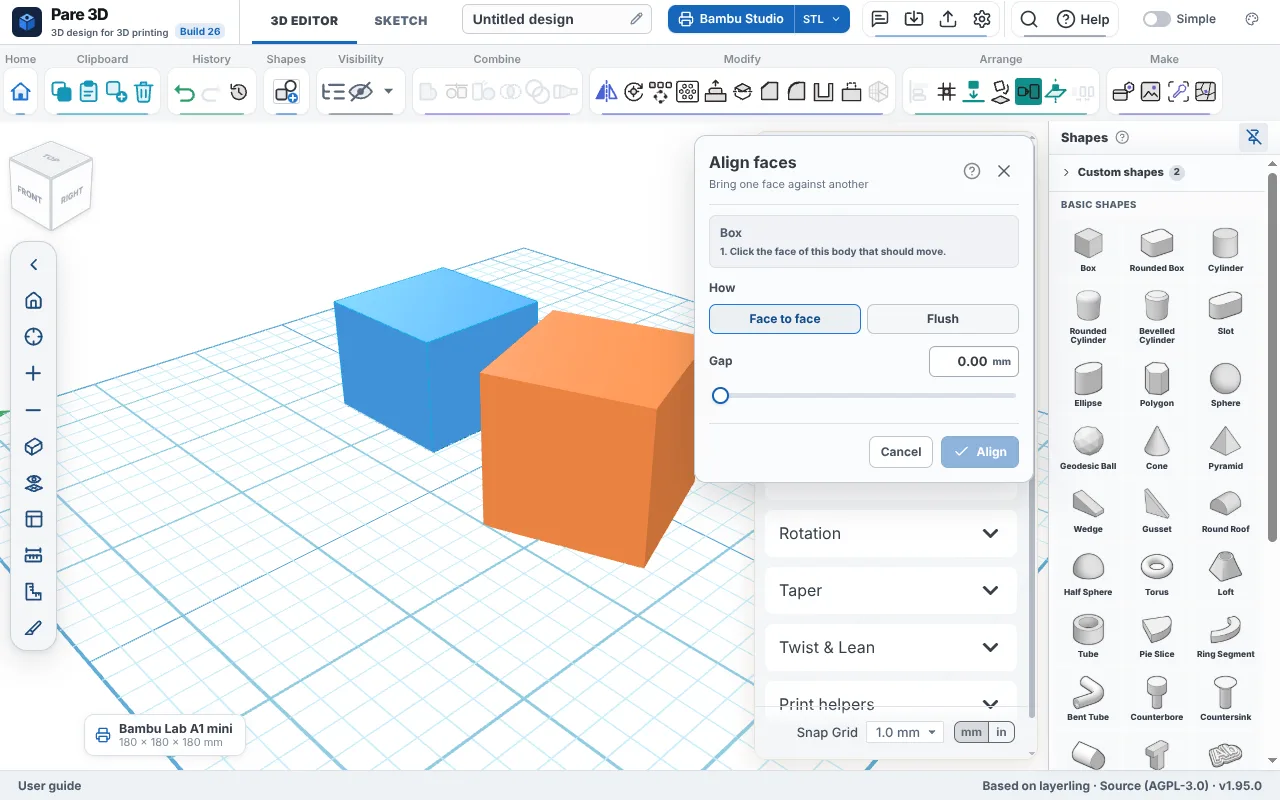
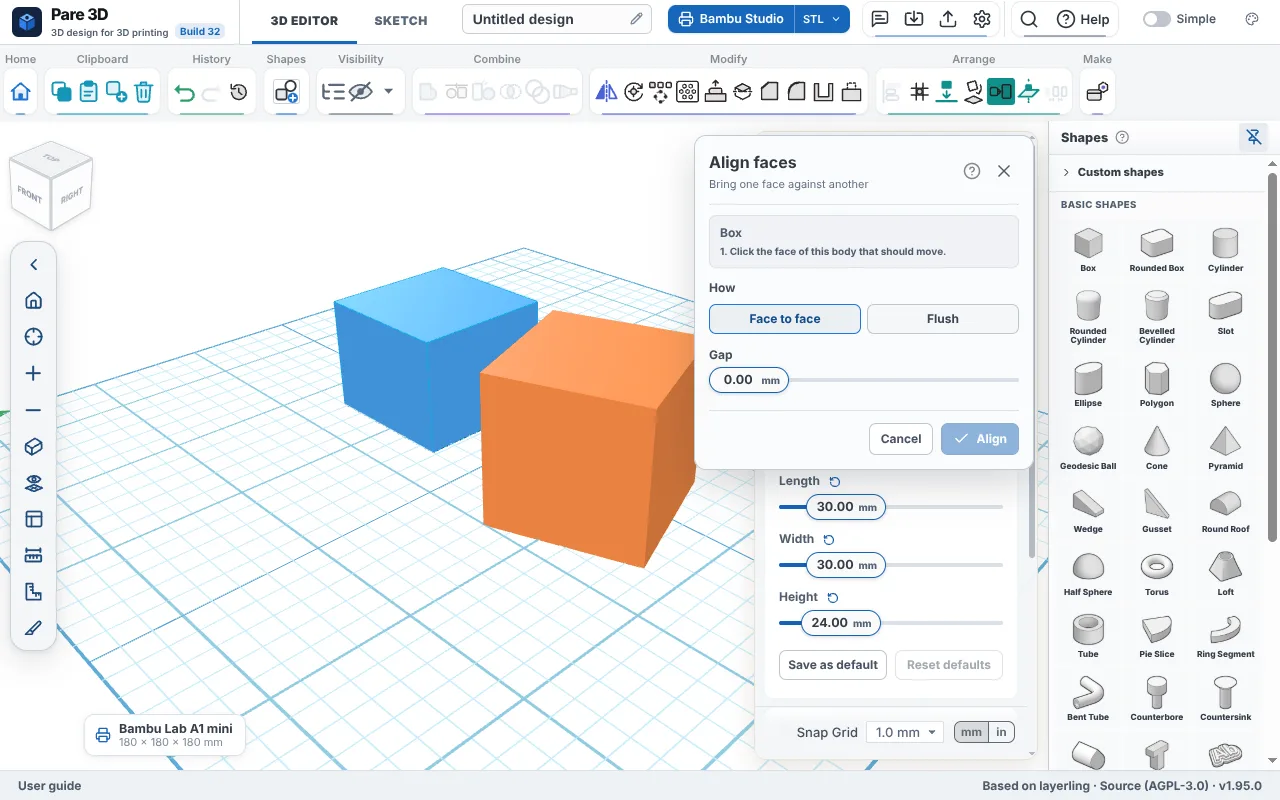
Build 32: tidy-up - fillet/chamfer redesign, designs on disk in the app, compact property rows, Make window, Mesh group, More options, Linux download, fresh guide pictures
Claude-Session: https://claude.ai/code/session_01XvzTdYw8DUL48B88VA1YS5

diff --git a/apps/web/src/app/page.tsx b/apps/web/src/app/page.tsx
@@ -619,7 +619,11 @@ async function saveProjectShapes(projectId: string, entry: ProjectShapeCacheEntr
   // Fork (build 32): in the app, on disk; any copy left in the browser's storage is dropped to free its room.
   if (await designDiskAvailable() && designDiskId(projectId)) {
     await designDiskPut(projectId, entry.revision, lylPackage);
-    void deleteProjectShapesFromBrowser(projectId).catch(() => undefined);
+    // Once per design and session is enough: after that the browser's storage holds no copy of it.
+    if (!clearedFromBrowser.has(projectId)) {
+      clearedFromBrowser.add(projectId);
+      void deleteProjectShapesFromBrowser(projectId).catch(() => undefined);
+    }
     return { historyTrimmed };
   }
   const database = await openProjectShapesDb();
@@ -750,6 +754,8 @@ async function moveProjectShapeRecordToDisk(record: ProjectShapeRecord): Promise
 }
 
 let projectsMovedToDisk: Promise<number> | null = null;
+/** Fork (build 32): designs whose copy in the browser's storage was already dropped this session. */
+const clearedFromBrowser = new Set<string>();
 /**
  * Fork (build 32): once per session in the app, every design still in the browser's storage moves to
  * disk. Older records without a package (shapes kept loose) stay where they are and move when opened.

diff --git a/apps/web/src/lib/pareWhatsNew.ts b/apps/web/src/lib/pareWhatsNew.ts
@@ -13,6 +13,7 @@ export const WHATS_NEW: ReadonlyArray<{ build: number; items: readonly string[] 
       "One Make button: ready-made parts in groups (fixings, containers, moving parts, print helpers), with Lithophane, Photo to outline and Voronoi in the same window.",
       "A Mesh group appears in the toolbar while an imported model is selected: Make solid, Fill hole, Simplify and Cut below.",
       "Blend, Hollow and Pattern show the main settings first; the rest is under More options.",
+      "A Linux version: Pare-3D-Linux.tar.gz on the releases page, beside the Mac and Windows downloads.",
     ],
   },
   {

diff --git a/docs/guide/en/15-offline-and-install.md b/docs/guide/en/15-offline-and-install.md
@@ -5,11 +5,12 @@ summary: The Pare 3D app for Mac and Windows, how it keeps itself up to date, an
 
 ## Installing as an app
 
-Pare 3D is a program for your Mac or Windows PC. It works without internet; it only goes online to look for updates.
+Pare 3D is a program for your Mac, Windows PC or Linux computer. It works without internet; it only goes online to look for updates.
 
-1. Open the [Pare 3D releases page](https://github.com/rakeshjivan/pare-3d/releases/latest) and download the file for your computer: `Pare-3D-Mac.zip` for a Mac (Apple silicon or Intel), `Pare-3D-Windows.zip` for Windows 10 or 11.
+1. Open the [Pare 3D releases page](https://github.com/rakeshjivan/pare-3d/releases/latest) and download the file for your computer: `Pare-3D-Mac.zip` for a Mac (Apple silicon or Intel), `Pare-3D-Windows.zip` for Windows 10 or 11, `Pare-3D-Linux.tar.gz` for 64-bit Linux.
 2. **Mac:** unzip it and drag **Pare 3D** into your Applications folder, then open it. The first time, macOS asks whether to trust it: go to System Settings › Privacy & Security and click **Open Anyway**.
 3. **Windows:** extract the folder and double-click **Pare 3D.exe**. If SmartScreen warns, choose **More info** › **Run anyway**.
+4. **Linux:** unpack the folder somewhere it can stay and run `./pare3d`. Run `./pare3d --install` once to add Pare 3D to your applications menu (`--uninstall` takes it out again). With Google Chrome, Chromium, Edge, Brave or Vivaldi installed it opens in a window of its own; otherwise in your default browser. Designs are kept in `~/.pare3d/designs`.
 
 Your designs live inside the app on this computer and are kept when the app updates or is replaced. Use {{ui:dashboard.backupAll}} now and then to keep a copy in a single file as well - see [Backing up and passing on](chapter:files-and-saving).
 
